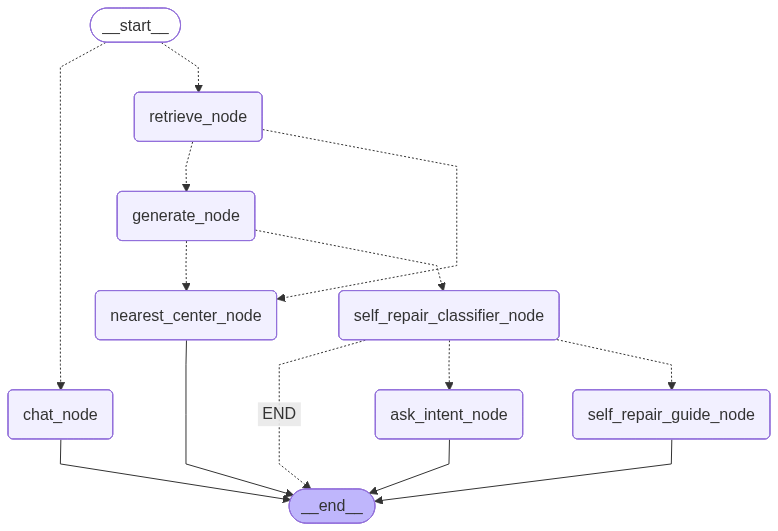
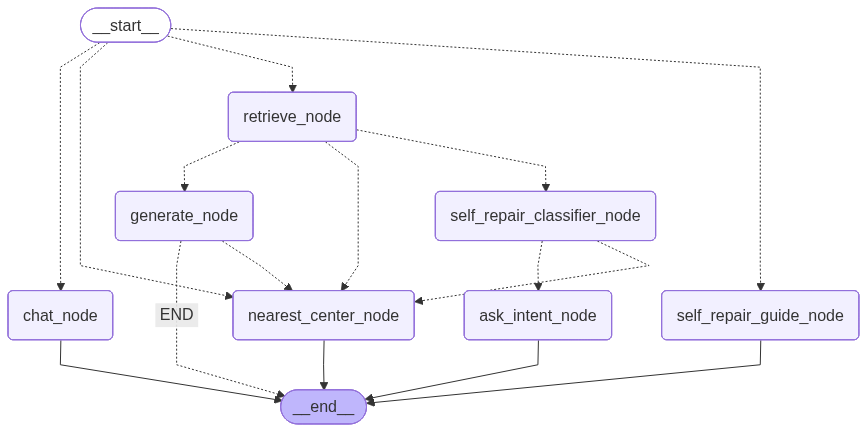
그래프 방향 구조 변경

diff --git a/src/graph.py b/src/graph.py
@@ -10,11 +10,21 @@ from src.nodes import (
     ask_intent_node,
     self_repair_guide_node,
     route_question,
-    grade_document_routing,
     check_hallucination_routing,
     route_after_self_repair_check
 )
 
+# 추가로 구현해야 할 라우팅 함수 (예시)
+def route_issue_type(state):
+    """retrieve_node 이후, 문서/의도를 바탕으로 SW, HW, 센터방문을 분류합니다."""
+    # 실제로는 state 내용을 보고 판단하는 로직이 들어갑니다.
+    issue_type = state.get("issue_type", "software") 
+    if issue_type == "hardware":
+        return "self_repair_classifier_node"
+    elif issue_type == "center":
+        return "nearest_center_node"
+    else:
+        return "generate_node"
 
 
 def build_cs_rag_graph():
@@ -35,56 +45,64 @@ def build_cs_rag_graph():
     workflow.add_node("self_repair_guide_node", self_repair_guide_node)
 
     # ==========================================
-    # 3. edge 연결
+    # 3. edge 연결 (비즈니스 로직 반영)
     # ==========================================
     
-    # [시작점 설정] 질문이 들어오면 가장 먼저 의도를 분류(Router)합니다.
+# [시작점] 질문 의도 분류 및 이전 맥락 이어가기
     workflow.set_conditional_entry_point(
         route_question,
         {
-            "chat_node": "chat_node",          # 잡담이면 chat_node로 이동
-            "retrieve_node": "retrieve_node"   # CS 문의면 검색 노드로 이동
-        }
+            # 일반 시작
+            "chat_node": "chat_node",          
+            "retrieve_node": "retrieve_node",
+            
+            # 사용자 선택 후 재진입 시 바로 직행하는 경로 추가
+            "nearest_center_node": "nearest_center_node",
+            "self_repair_guide_node": "self_repair_guide_node"
+            }
     )
 
-    # [검색 -> 평가 분기] 문서를 찾은 뒤, 이 문서가 쓸만한지 평가합니다.
+    # [검색 후 분기] SW문제인지, HW문제인지, 무조건 센터방문인지 판단
     workflow.add_conditional_edges(
         "retrieve_node",
-        grade_document_routing,
+        route_issue_type, # <-- 이 라우팅 함수에서 SW/HW/Center를 가릅니다.
         {
-            "generate_node": "generate_node",     
-            "nearest_center_node": "nearest_center_node"  # 웹 검색 대신 센터 안내로!
-        }
-    )
-    workflow.add_conditional_edges(
-        "generate_node",
-        check_hallucination_routing,
-        {
-            "self_repair_classifier_node": "self_repair_classifier_node", # 정상
-            "nearest_center_node": "nearest_center_node"                  # 환각 발견 시
+            "generate_node": "generate_node",                             # SW -> 답변 생성
+            "nearest_center_node": "nearest_center_node",                 # Center -> 센터 안내
+            "self_repair_classifier_node": "self_repair_classifier_node"  # HW -> 자가수리 모델 판별
         }
     )
 
-    # [자가수리 판별 -> 최종 분기] 고객의 자가수리 의향 및 대상 여부에 따라 흐름을 가릅니다.
+    # [자가수리 판별 후 분기] 자가수리 모델인가?
     workflow.add_conditional_edges(
         "self_repair_classifier_node",
         route_after_self_repair_check,
         {
-            "self_repair_guide_node": "self_repair_guide_node", # 의향 있음 -> 가이드 병합
-            "ask_intent_node": "ask_intent_node",               # 의향 모름 -> 역질문 추가
-            "END": END                                          # 대상 아님 -> 생성된 답변 그대로 반환 후 종료
+            "ask_intent_node": "ask_intent_node",         # 자가수리 모델 O -> "자가수리 할래? 센터 갈래?" 선택지 제공
+            "nearest_center_node": "nearest_center_node", # 자가수리 모델 X -> 묻지도 따지지도 않고 센터 안내
+        }
+    )
+
+    # [답변 생성 후 분기] 생성된 답변이 환각(거짓말)인지 순수하게 검증만 수행
+    workflow.add_conditional_edges(
+        "generate_node",
+        check_hallucination_routing,
+        {
+            "END": END,                                   # 환각 없음 -> 생성된 답변 반환하며 정상 종료
+            "nearest_center_node": "nearest_center_node"  # 환각 발생 시 -> 안전하게 센터 안내로 Fallback
         }
     )
 
     # ==========================================
-    # 4. 종료점(END) 연결
+    # 4. 일반 edge 및 종료점(END) 연결
     # ==========================================
     workflow.add_edge("chat_node", END)
+    # generate_node는 조건부 엣지로 END 처리가 되었으므로 제외
     workflow.add_edge("nearest_center_node", END)
     workflow.add_edge("ask_intent_node", END)
     workflow.add_edge("self_repair_guide_node", END)
 
-    # 5. 그래프 컴파일 (실행 가능한 앱 형태로 변환)
+    # 5. 그래프 컴파일
     app = workflow.compile()
     
     return app

diff --git a/entrypoint/ingest.py b/entrypoint/ingest.py
@@ -5,17 +5,17 @@ if __name__ == "__main__":
     TARGET_FAQ_PATH = "./data/raw/raw_data.xlsx"
     TARGET_SELFREPAIR_FOLDER = r"C:\SKN25-3rd-1Team\data\raw\self-repair"
     
-    print("🚀 데이터 적재 파이프라인 실행을 시작합니다...\n")
+    print("데이터 적재 파이프라인 실행을 시작합니다...\n")
 
     # 1. FAQ 데이터 파이프라인 실행
     if os.path.exists(TARGET_FAQ_PATH):
         ingest_faq_data(TARGET_FAQ_PATH)
     else:
-        print(f"❌ 오류: '{TARGET_FAQ_PATH}' 파일을 찾을 수 없습니다.")
+        print(f"오류: '{TARGET_FAQ_PATH}' 파일을 찾을 수 없습니다.")
 
 
     
     if os.path.exists(TARGET_SELFREPAIR_FOLDER):
         ingest_selfrepair_data(TARGET_SELFREPAIR_FOLDER)
     else:
-        print(f"❌ 오류: '{TARGET_SELFREPAIR_FOLDER}' 폴더를 찾을 수 없습니다.")
+        print(f"오류: '{TARGET_SELFREPAIR_FOLDER}' 폴더를 찾을 수 없습니다.")
